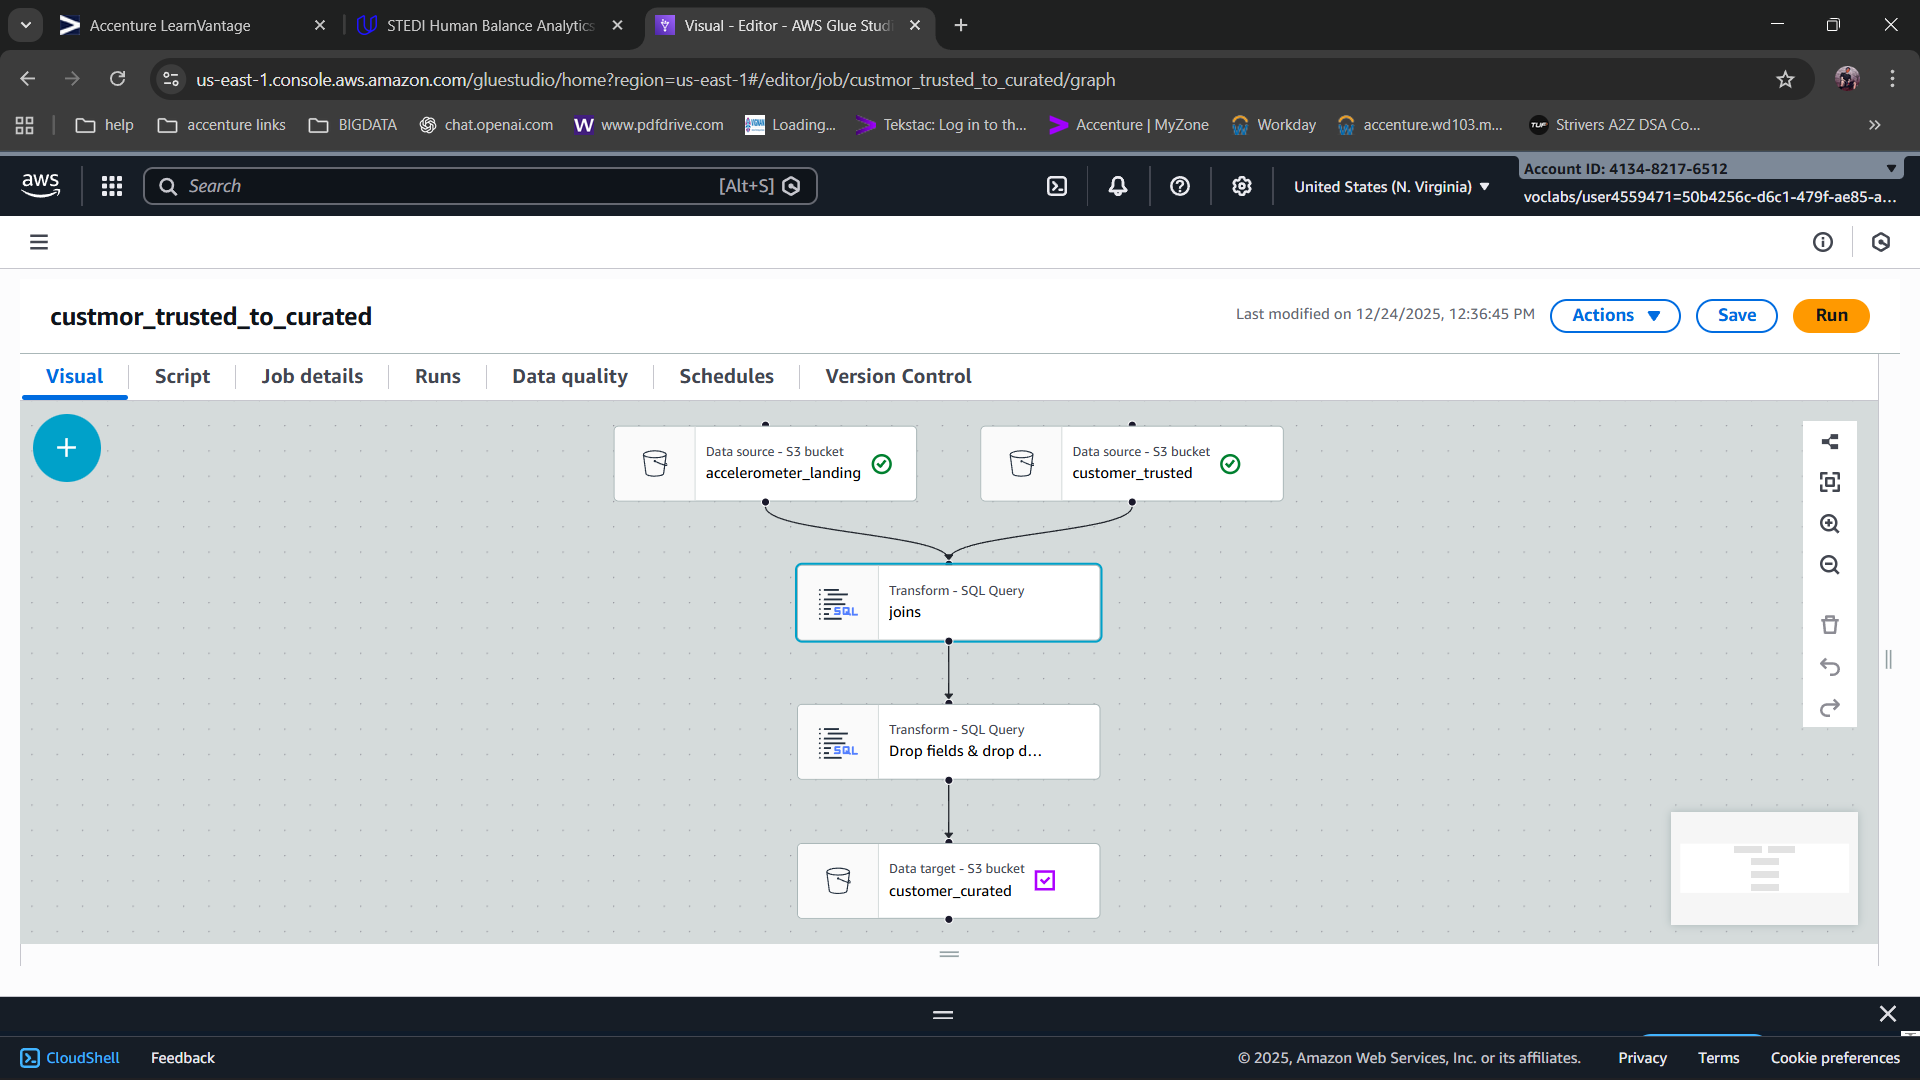
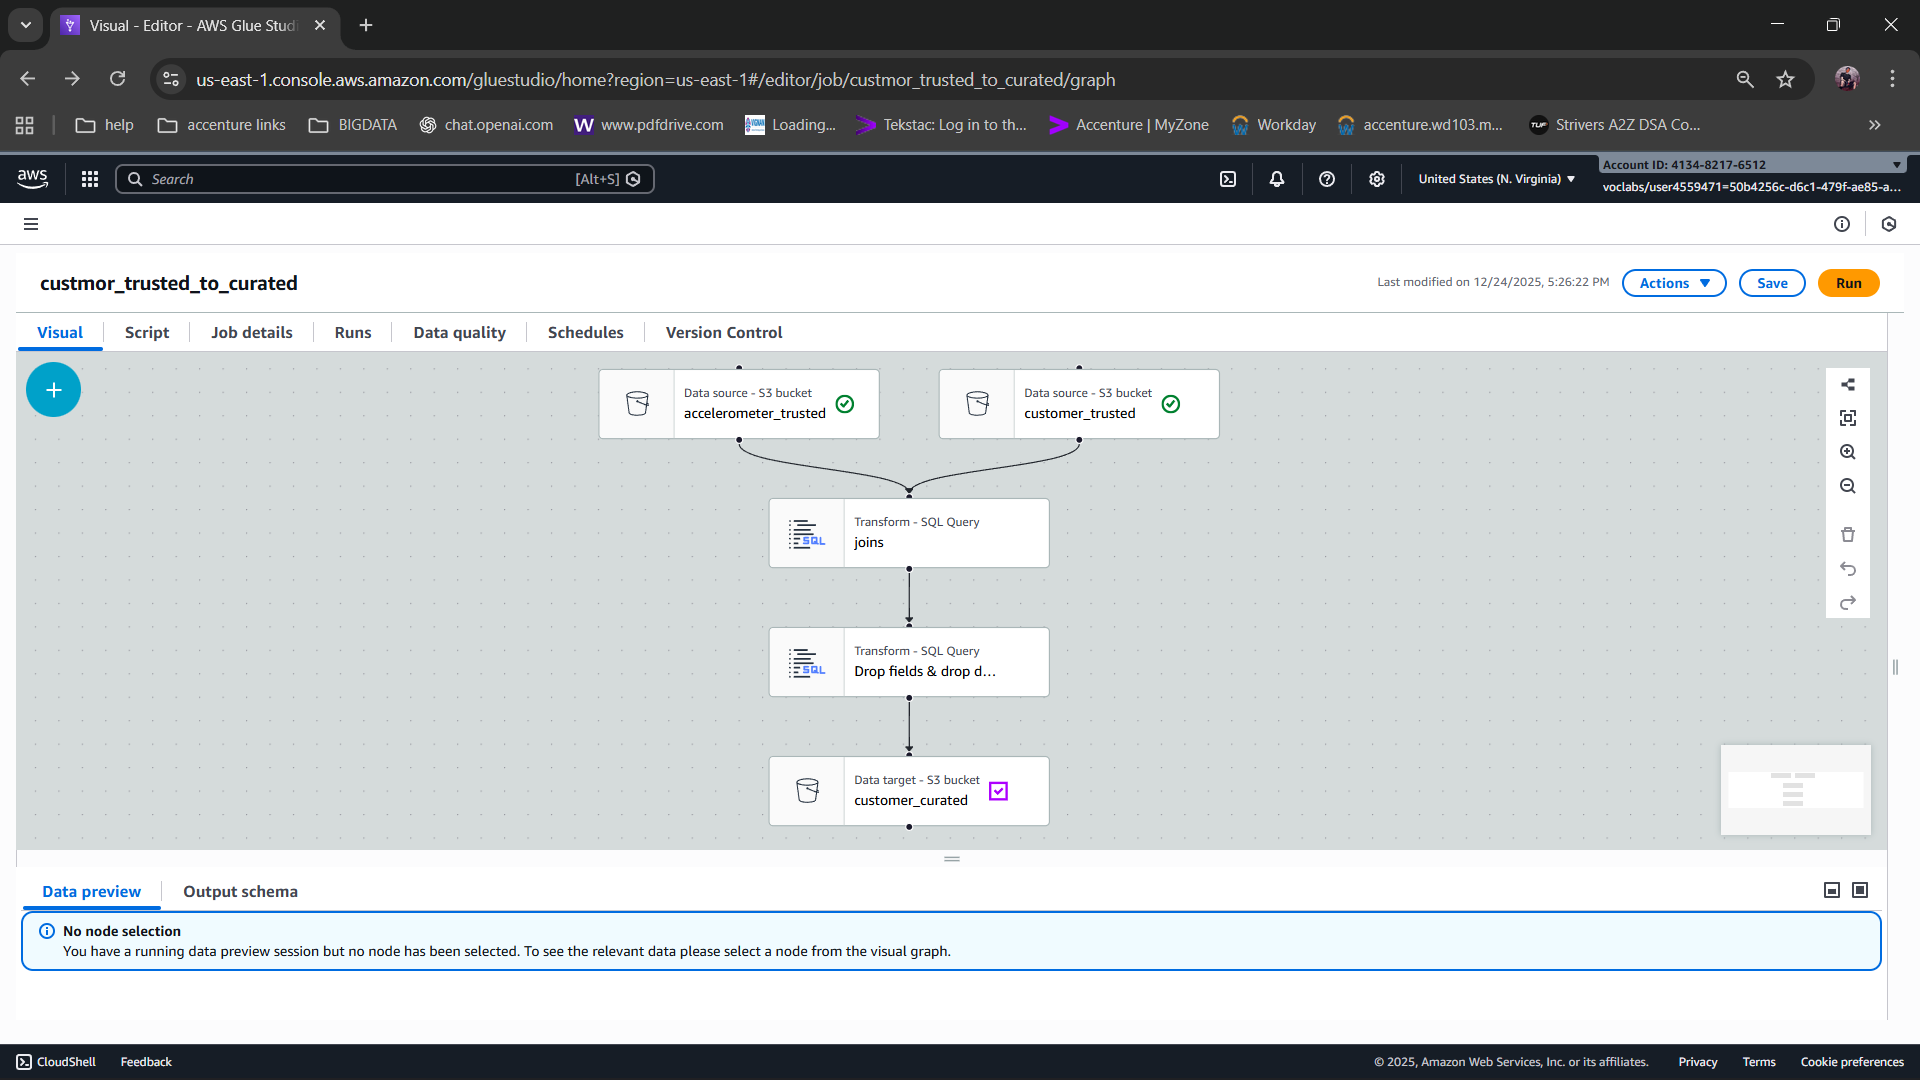
added ddl

Changed region(s): [[0.0, 0.1222, 1.0, 0.8861], [0.0, 0.9167, 1.0, 1.0], [0.0, 0.0, 0.5, 0.0611]]

diff --git a/Python-Scripts/customer_trusted_to_curated.py b/Python-Scripts/customer_trusted_to_curated.py
@@ -26,8 +26,8 @@ DEFAULT_DATA_QUALITY_RULESET = """
     ]
 """
 
-# Script generated for node accelerometer_landing
-accelerometer_landing_node1766556649463 = glueContext.create_dynamic_frame.from_catalog(database="stedi", table_name="accelerometer_landing", transformation_ctx="accelerometer_landing_node1766556649463")
+# Script generated for node accelerometer_trusted
+accelerometer_trusted_node1766556649463 = glueContext.create_dynamic_frame.from_catalog(database="stedi", table_name="accelerometer_trusted", transformation_ctx="accelerometer_trusted_node1766556649463")
 
 # Script generated for node customer_trusted
 customer_trusted_node1766556679449 = glueContext.create_dynamic_frame.from_catalog(database="stedi", table_name="customer_trusted", transformation_ctx="customer_trusted_node1766556679449")
@@ -37,7 +37,7 @@ SqlQuery0 = '''
 select *  from a join c on a.user = c.email
 
 '''
-joins_node1766559234751 = sparkSqlQuery(glueContext, query = SqlQuery0, mapping = {"a":accelerometer_landing_node1766556649463, "c":customer_trusted_node1766556679449}, transformation_ctx = "joins_node1766559234751")
+joins_node1766559234751 = sparkSqlQuery(glueContext, query = SqlQuery0, mapping = {"a":accelerometer_trusted_node1766556649463, "c":customer_trusted_node1766556679449}, transformation_ctx = "joins_node1766559234751")
 
 # Script generated for node Drop fields & drop duplicates
 SqlQuery1 = '''
